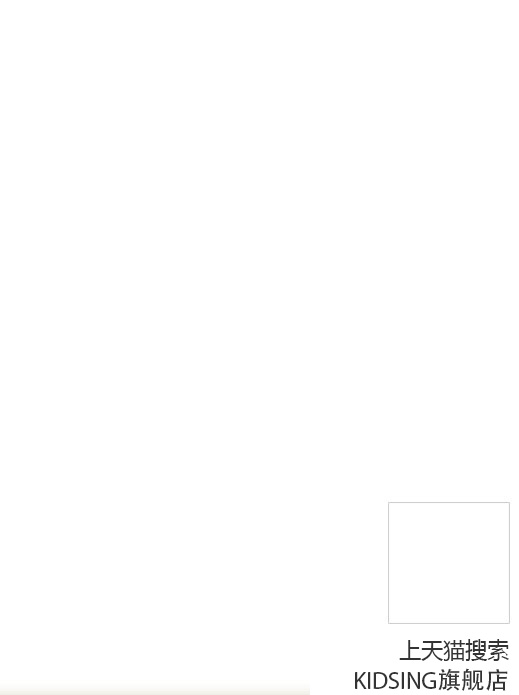
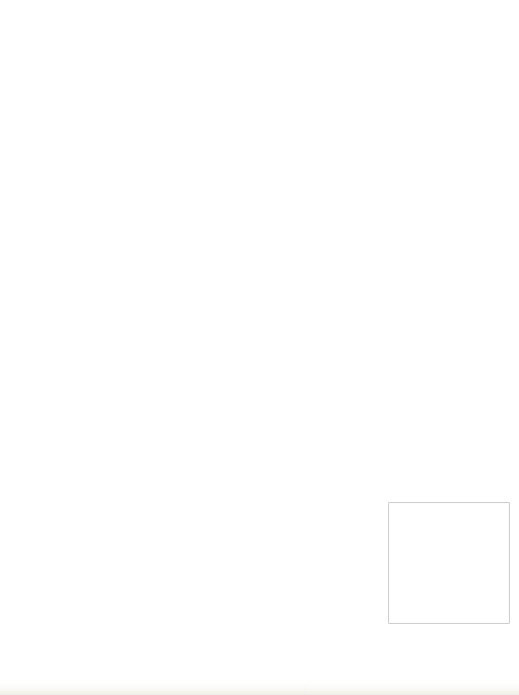
删除天猫字眼

Changed region(s): [[0.6782, 0.9065, 0.9865, 0.9971]]

diff --git a/src/client/components/home/home.vue b/src/client/components/home/home.vue
@@ -22,7 +22,7 @@
                 参与KIDS.ING童鞋定制创作，<br>邀朋友投票助力即有机会获得免费定制名额，<br>限量100名噢！
               </p>
               <img class="title-rule" :src="titleRule" alt="">
-              <p class="tmall">上天猫“kidsing旗舰店”可直接定制</p>
+              <!-- <p class="tmall">上天猫“kidsing旗舰店”可直接定制</p> -->
               <div>
                 <p style="margin-bottom: 10px;">100名免费定制评选规则：</p>
               </div>

diff --git a/src/client/components/share/share.vue b/src/client/components/share/share.vue
@@ -162,7 +162,7 @@ export default {
     },
     getWork() {
       // this.work = {
-      //   work_url: 'https://litecoder.oss-cn-shenzhen.aliyuncs.com/kidsing/20181031/2_6A8CD3E598385DFA82C831BC4F2E3F13.jpg',
+      //   img_url: 'https://litecoder.oss-cn-shenzhen.aliyuncs.com/kidsing/20181031/2_6A8CD3E598385DFA82C831BC4F2E3F13.jpg',
       //   rank: 100,
       //   like: 9999
       // };

diff --git a/index.html b/index.html
@@ -7,7 +7,7 @@
 <head>
   <meta charset="utf-8">
   <meta name="viewport" content="width=device-width,initial-scale=1.0 minimum-scale=1.0, maximum-scale=1.0">
-<title>KIDS.ING双十一童鞋定制大赛</title>
+<title>KIDS.ING童鞋定制大赛</title>
   <script>
     document.querySelector('html').style.fontSize = (window.innerWidth / 750 * 28) + 'px';
 

diff --git a/src/client/components/home/style.scss b/src/client/components/home/style.scss
@@ -4,8 +4,8 @@
   .diy-slogan {
     display: block;
     margin: px2rem(40) auto px2rem(20);
-    width: px2rem(662);
-    height: px2rem(333);
+    width: px2rem(680);
+    height: px2rem(351);
   }
   .btn-details {
     position: absolute;
